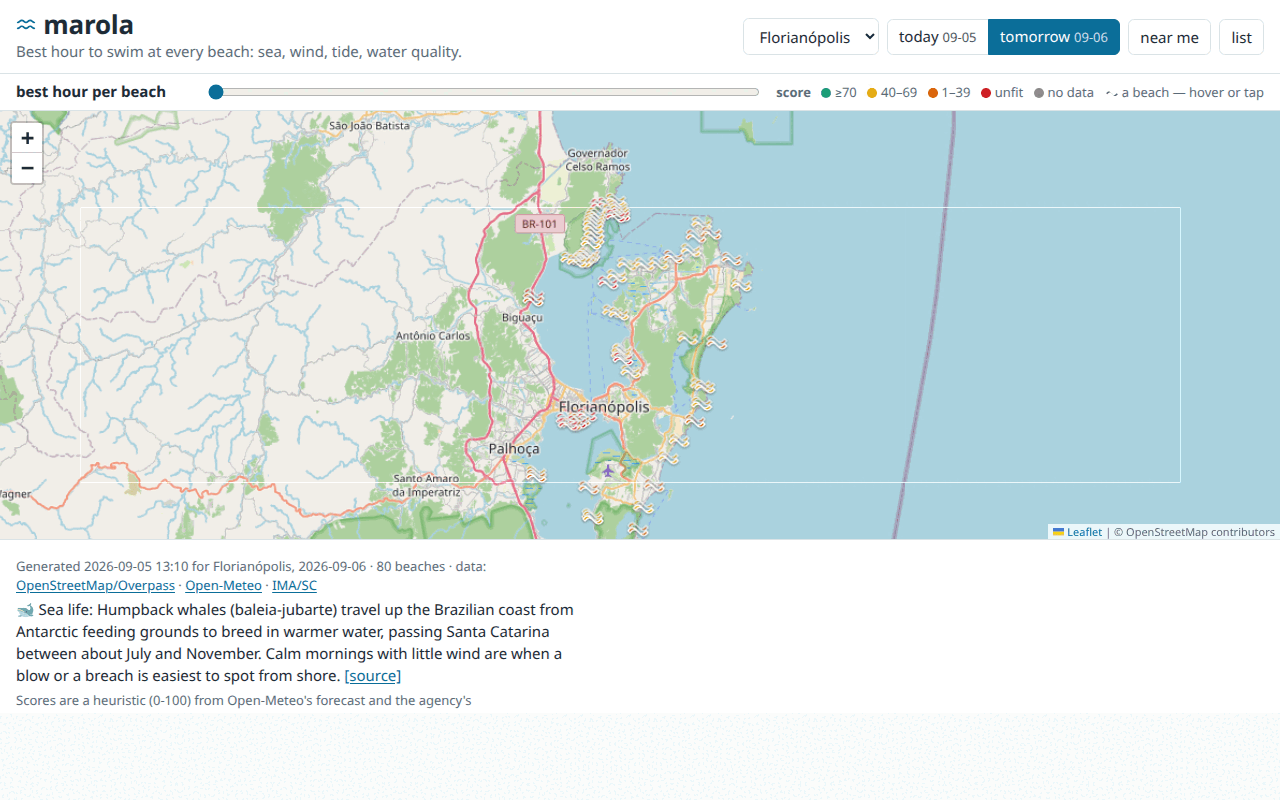
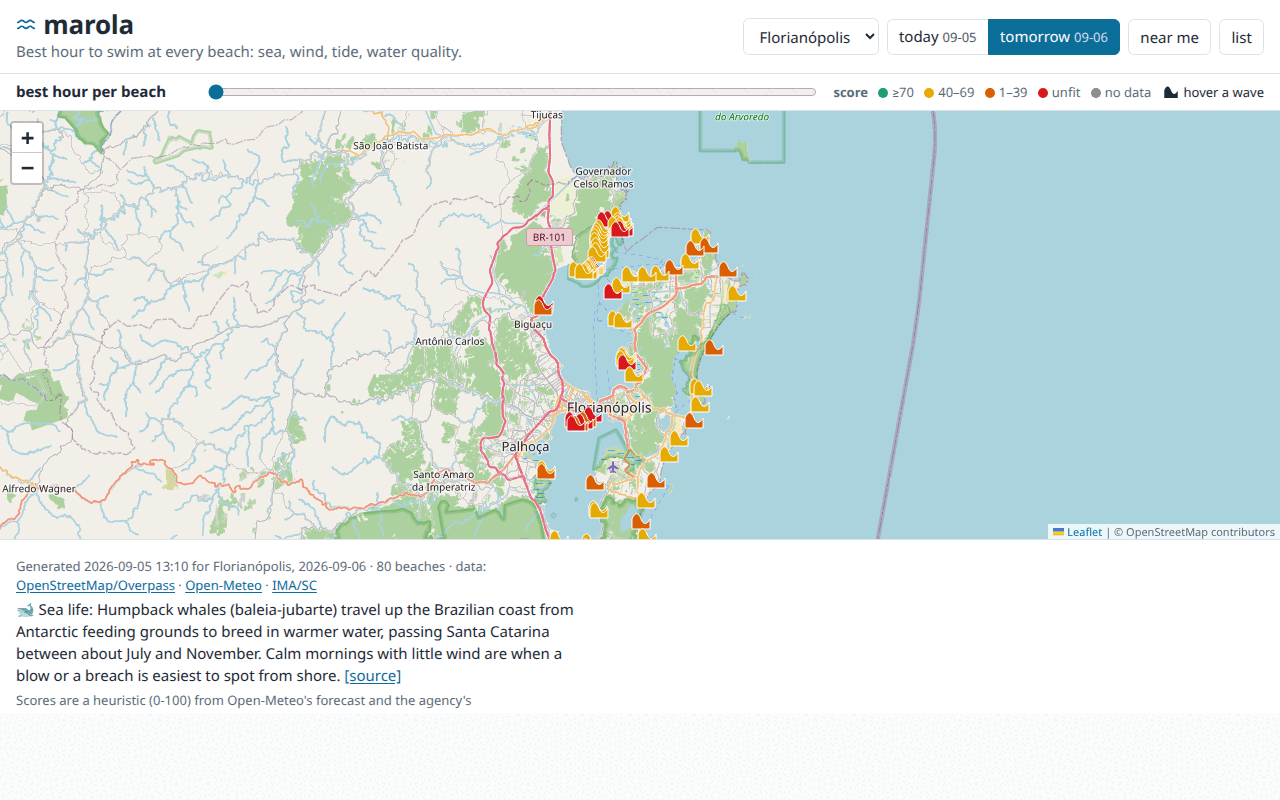
mip-0009 task 4: re-shot screenshots and the card grid wrapping, after the task 3 fix
The stack was made linear again (each task's own commits rebased onto the previous, the merge
commits dropped) so GitHub's stack rebase stops finding the ci.yml conflict that only lived in a
merge commit. Two things had been carried by the dropped merge of task 3 into task 4 and are
re-applied here as their own commit: the seven screenshots and README under
docs/mips/MIP-0009/screenshots/ re-shot after the task 3 fix (no water-cell overflow, distinct
score colours at area zoom, legible past waves, no legend key on the phone), and the card's
`.card .aspects .grid span { white-space: normal }` rule so the six cells wrap inside a 390 px
card, with the harness assertion that goes with it.

Tested: node --check site/static/app.js; node scripts/site_check.js 34/34 ok on this tip; the tree for site/, scripts/site_check.js and the screenshots is byte-identical to the previously pushed task 4 tip

Changed region(s): [[0.0, 0.125, 0.5938, 0.6875], [0.5312, 0.0938, 1.0, 0.6562]]

diff --git a/site/static/style.css b/site/static/style.css
@@ -143,10 +143,13 @@ button[aria-pressed="true"], .segmented button.on { background: var(--accent); c
 .aspects .unfit { color: var(--c0); font-weight: 600; }
 .legend .wave-key { color: var(--ink); }
 .legend .wave-key svg { width: 18px; height: 18px; vertical-align: -4px; margin-right: .3em; }
-/* the same row as the first block of the card (touch has no hover); the head repeats the h2 */
+/* the same row as the first block of the card (touch has no hover); the head repeats the h2.
+ * The card is narrower than the tooltip (min(26rem, 100vw - 1.5rem)), so here every cell wraps —
+ * the tooltip can afford one line per reading, a 390 px card cannot. */
 .card .aspects { margin: .1rem 0 .6rem; font-size: 13px; }
 .card .aspects .head { display: none; }
 .card .aspects .grid { gap: .1rem .6rem; }
+.card .aspects .grid span { white-space: normal; }
 
 @media (prefers-reduced-motion: no-preference) {
   select, button, .list li { transition: background-color .15s, border-color .15s, color .15s; }

diff --git a/docs/mips/MIP-0009/screenshots/README.md b/docs/mips/MIP-0009/screenshots/README.md
@@ -8,17 +8,25 @@ thresholds `Swimability` uses; and headless Chrome cannot hover, so a scratch-on
 the tooltip programmatically (`marker.openTooltip()`, the same call a mouse-over makes).
 Desktop is 1280×800, phone is 390×844. No phone-browser (Safari/Chrome on a device) check yet.
 
+These were re-shot after the frontend review of the first round (the files below replace it):
+one filled wave path instead of two thin ribbons and a white halo, the water verdict spanning
+both columns of the aspect grid, past hours fading only their fill, and an 18 px legend key in
+`--ink` that is hidden under 640 px.
+
 | File | Shows |
 |---|---|
 | `desk-hover.png` | Joaquina's tooltip at the best hour: head, the six cells, wind band + compass, period, "best 07:00" for whales |
-| `desk-north.png` | Ingleses' tooltip, where the water verdict is long — the cell runs past the tooltip's edge |
-| `desk-area.png` | The whole area at the fitted zoom: 80 waves, the north-west coast overlapping into one shape |
-| `desk-today-past.png` | Today's board after 13:10: every past-hour wave at 50 % opacity over the sea tiles |
-| `desk-card.png` | The card with the aspect row as its first block, before the score headline |
-| `phone-card.png` | The same card at 390 px: the water cell is cut at the card's edge; the legend key is cut at the bar's edge |
+| `desk-north.png` | Ingleses' tooltip, where the water verdict is long — it now has the full width of the grid and stays inside the tooltip |
+| `desk-area.png` | The whole area at the fitted zoom: 80 waves, each still showing its score colour where the coast is crowded |
+| `desk-today-past.png` | Today's board after 13:10: every past-hour wave with a faded fill and a dashed white outline, legible over the sea tiles |
+| `desk-card.png` | The card with the aspect row as its first block, before the score headline; the selected wave at 32 px on the map |
+| `phone-card.png` | The same card at 390 px: the water verdict spans the row and stays inside the card; no legend key in the hour bar |
 | `phone-area.png` | The area at 390 px |
 
-What they show that `scripts/site_check.js` cannot (it proves markup, not pixels) is the
-subject of the review on the task 4 PR: the water cell overflowing the tooltip and the card,
-the white stroke and shadow outweighing the score colour at area zoom, past-hour waves that
-nearly vanish, and the 14 px legend glyph reading as two dots.
+What they show that `scripts/site_check.js` cannot (it proves markup, not pixels) is that the
+four review findings are gone: the water cell fits the tooltip and the card, the score colour
+survives the area zoom, a past-hour wave is still visible, and the legend key reads as a wave.
+Two things they also show are older than MIP-0009 and out of its scope: at 390 px the page
+itself is wider than the viewport, so the card and the footer are cut at the right edge (visible
+in the first round's shots too), and a water-quality point's full street address overflows the
+card's `dd`.
